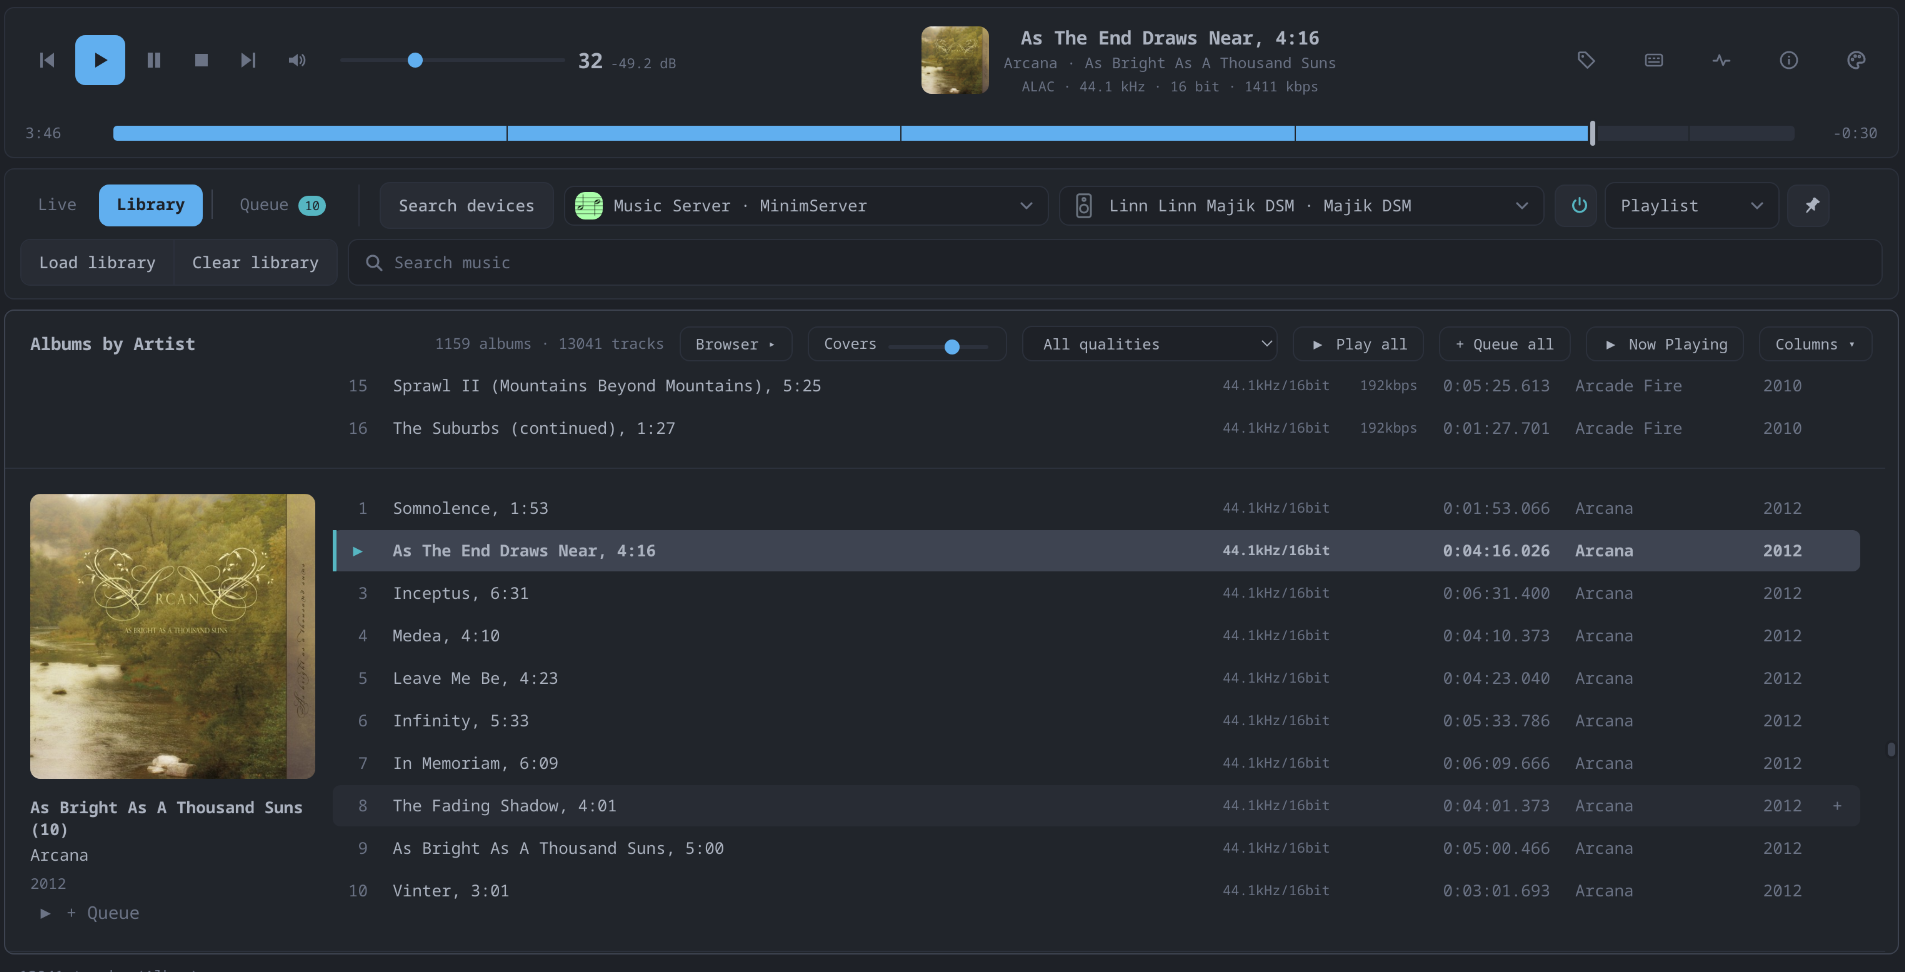
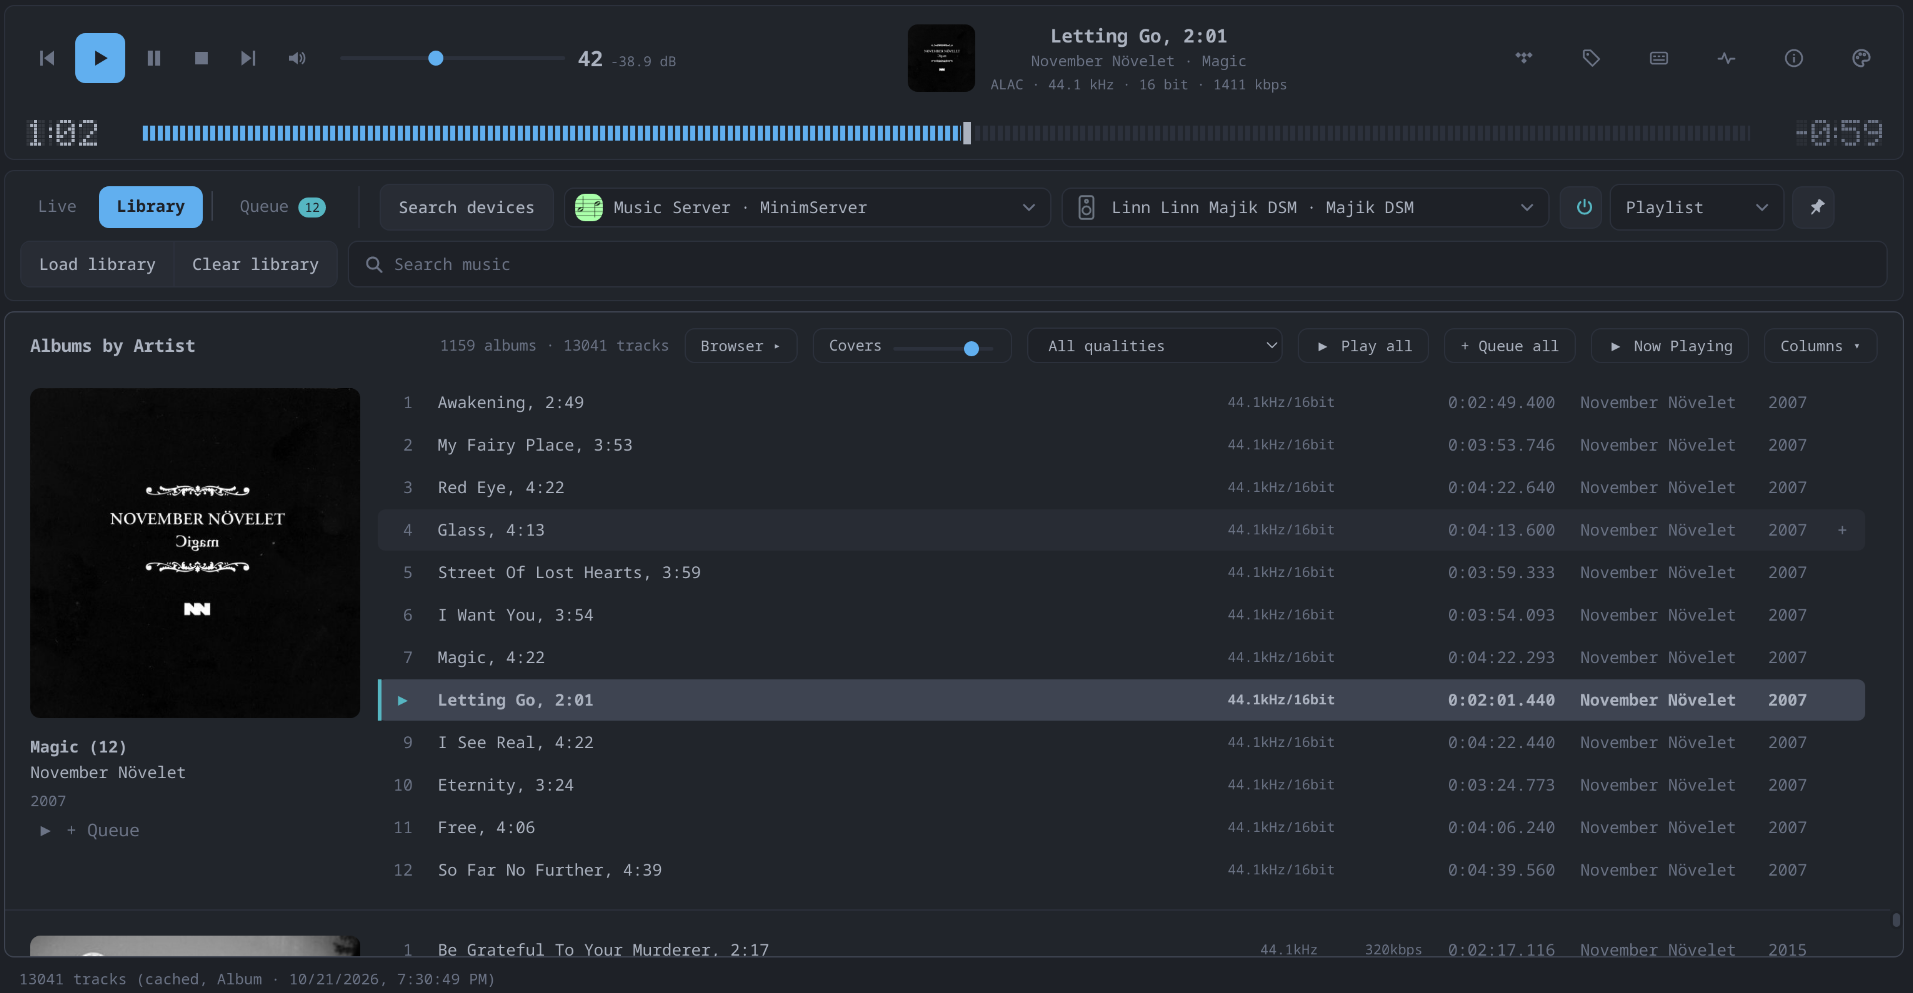
Fix HEOS/Sonos volume, refuse requests from other sites, readable backend errors
- RenderingControl (the volume of plain UPnP players such as HEOS and
  Sonos) now goes through StrictSoap like AVTransport, so it sends the
  text/xml; charset="utf-8" content type these players require.
- The backend only answers its own window: the Host must be a loopback
  name, and requests with a foreign Origin or Sec-Fetch-Site cross-site /
  same-site are refused (403). Before, any web page could e.g. skip
  tracks, log out of TIDAL or quit the app with a plain POST, and DNS
  rebinding could read the answers.
- api() in the page reads plain-text error answers ("Internal Server
  Error") and FastAPI's validation error lists as messages instead of
  failing with a JSON parse error or "[object Object]".
- Docs: new Library mode screenshot with the pixel LCD position bar.

Claude-Session: https://claude.ai/code/session_01WGiUZ6aAAc2JoxKtEd8kGk

diff --git a/app/static/index.html b/app/static/index.html
@@ -8,4 +8,4 @@ P.forEach(function(p){var li=document.createElement("li");li.dataset.t=p[0];li.s
 apply(cur(),false);
 btn.onclick=function(e){e.stopPropagation();menu.classList.toggle("hidden")};
 document.addEventListener("click",function(){menu.classList.add("hidden")});
-document.addEventListener("keydown",function(e){if(e.key==="Escape")menu.classList.add("hidden")});})();</script><audio id="localAudio" preload="none"></audio><div id="toast" class="toast hidden"></div><div id="diagModal" class="modal hidden"><div class="modal-content diag"><button id="diagClose" class="modal-close" aria-label="Close">×</button><h3>Diagnostics</h3><div class="diagbar"><button id="diagCopy" class="btn-link">Copy report</button><button id="diagDevice" class="btn-link" title="Add the selected device's services to the log">Device info</button><button id="diagClear" class="btn-link">Clear</button><label class="btn-link"><input id="diagErrOnly" type="checkbox"> Errors only</label></div><ol id="diagList"></ol></div></div><div id="aboutModal" class="modal hidden"><div class="modal-content about"><button id="aboutClose" class="modal-close" aria-label="Close">×</button><h3>Flou Player</h3><p id="aboutVersion" class="aboutver"></p><p>A local, iTunes-style desktop app for browsing and playing music from MinimServer through a Linn/OpenHome output device.</p><p class="aboutai">Developed with AI assistance: almost all code was written by Claude Code (Anthropic) under the direction of the author.</p><table id="aboutTable"></table><p><a id="aboutRepo" href="#" target="_blank" rel="noopener"></a> · <a id="aboutChangelog" href="#" target="_blank" rel="noopener">Changelog</a></p></div></div><div id="keysModal" class="modal hidden"><div class="modal-content keys" role="dialog" aria-label="Keyboard shortcuts"><button id="keysClose" class="modal-close" aria-label="Close">×</button><h3>Keyboard shortcuts</h3><div id="keysBody"></div></div></div><div id="lightbox" class="lightbox hidden"><img alt=""><span></span></div><div id="metaModal" class="modal hidden"><div class="modal-content"><button id="metaClose" class="modal-close">×</button><h3 id="metaTitle">Metadata</h3><pre id="metaBody"></pre></div></div></div><script src="/static/core.js?v=70"></script><script src="/static/devices.js?v=70"></script><script src="/static/dialogs.js?v=70"></script><script src="/static/library.js?v=70"></script><script src="/static/playback.js?v=70"></script><script src="/static/queue.js?v=70"></script><script src="/static/health.js?v=70"></script><script src="/static/tidal.js?v=70"></script><script src="/static/live.js?v=70"></script><script src="/static/openhome.js?v=70"></script><script src="/static/remember.js?v=70"></script><script src="/static/keyboard.js?v=70"></script><script src="/static/media.js?v=70"></script></body></html>
+document.addEventListener("keydown",function(e){if(e.key==="Escape")menu.classList.add("hidden")});})();</script><audio id="localAudio" preload="none"></audio><div id="toast" class="toast hidden"></div><div id="diagModal" class="modal hidden"><div class="modal-content diag"><button id="diagClose" class="modal-close" aria-label="Close">×</button><h3>Diagnostics</h3><div class="diagbar"><button id="diagCopy" class="btn-link">Copy report</button><button id="diagDevice" class="btn-link" title="Add the selected device's services to the log">Device info</button><button id="diagClear" class="btn-link">Clear</button><label class="btn-link"><input id="diagErrOnly" type="checkbox"> Errors only</label></div><ol id="diagList"></ol></div></div><div id="aboutModal" class="modal hidden"><div class="modal-content about"><button id="aboutClose" class="modal-close" aria-label="Close">×</button><h3>Flou Player</h3><p id="aboutVersion" class="aboutver"></p><p>A local, iTunes-style desktop app for browsing and playing music from MinimServer through a Linn/OpenHome output device.</p><p class="aboutai">Developed with AI assistance: almost all code was written by Claude Code (Anthropic) under the direction of the author.</p><table id="aboutTable"></table><p><a id="aboutRepo" href="#" target="_blank" rel="noopener"></a> · <a id="aboutChangelog" href="#" target="_blank" rel="noopener">Changelog</a></p></div></div><div id="keysModal" class="modal hidden"><div class="modal-content keys" role="dialog" aria-label="Keyboard shortcuts"><button id="keysClose" class="modal-close" aria-label="Close">×</button><h3>Keyboard shortcuts</h3><div id="keysBody"></div></div></div><div id="lightbox" class="lightbox hidden"><img alt=""><span></span></div><div id="metaModal" class="modal hidden"><div class="modal-content"><button id="metaClose" class="modal-close">×</button><h3 id="metaTitle">Metadata</h3><pre id="metaBody"></pre></div></div></div><script src="/static/core.js?v=71"></script><script src="/static/devices.js?v=71"></script><script src="/static/dialogs.js?v=71"></script><script src="/static/library.js?v=71"></script><script src="/static/playback.js?v=71"></script><script src="/static/queue.js?v=71"></script><script src="/static/health.js?v=71"></script><script src="/static/tidal.js?v=71"></script><script src="/static/live.js?v=71"></script><script src="/static/openhome.js?v=71"></script><script src="/static/remember.js?v=71"></script><script src="/static/keyboard.js?v=71"></script><script src="/static/media.js?v=71"></script></body></html>

diff --git a/app/static/core.js b/app/static/core.js
@@ -86,7 +86,14 @@ async function api(url,opt){
   let r;
   try{r=await fetch(url,opt)}
   catch(e){ if(e.name==='AbortError') throw e; throw Error('Lost connection to the Flou Player background service -- please restart Flou Player.') }
-  const j=await r.json();if(!r.ok)throw Error(j.detail||r.statusText);return j}
+  // A crash in the backend answers with plain text ("Internal Server Error"), not JSON: report that, not a JSON parse error.
+  const text=await r.text(); let j;
+  try{ j=JSON.parse(text) }catch(e){ throw Error(`The background service answered ${[r.status,r.statusText].filter(Boolean).join(' ')}: ${text.trim().slice(0,200)||'(empty)'} (${url})`) }
+  if(!r.ok){
+    const d=j?.detail;   // a string, or FastAPI's list of validation errors
+    throw Error(typeof d==='string'?d:Array.isArray(d)?d.map(x=>x?.msg||JSON.stringify(x)).join('; '):`${r.status} ${r.statusText}`);
+  }
+  return j}
 function isLocal(){return $('#renderer').value===LOCAL_RENDERER_ID}
 
 function deviceOption(d){return `<option value="${esc(d.id)}" data-icon="${esc(d.icon||'')}">${esc(d.name)}${d.model?' · '+esc(d.model):''}</option>`}

diff --git a/tests/test_backend.py b/tests/test_backend.py
@@ -10,7 +10,7 @@ import app.main as m
 from app import devices as devices_api, state as app_state
 from tests.fakes import linn_player, media_server
 
-client = TestClient(m.app)
+client = TestClient(m.app, base_url="http://127.0.0.1:8765")   # the backend only answers local requests
 
 TRACK = ('<item id="t1" parentID="a1"><dc:title>Song</dc:title><upnp:artist>Artist</upnp:artist><upnp:album>Album</upnp:album>'
          '<upnp:class>object.item.audioItem.musicTrack</upnp:class>'
@@ -216,6 +216,23 @@ def test_av_calls_send_a_utf8_charset_content_type():
     dev, av = av_only_renderer({"Stop": {}, "SetAVTransportURI": {}, "Play": {}})
     assert play(dev).status_code == 200
     assert av.headers == {"Content-Type": 'text/xml; charset="utf-8"'}
+
+
+def test_rendering_control_volume_sends_a_utf8_charset_content_type():
+    """The volume of a HEOS/Sonos player goes through RenderingControl, which needs the same header."""
+    from tests.fakes import FakeService
+    level = {"v": 20}
+    rc = FakeService("urn:upnp-org:serviceId:RenderingControl", "urn:schemas-upnp-org:service:RenderingControl:1", {
+        "GetVolume": lambda InstanceID, Channel: {"CurrentVolume": level["v"]},
+        "SetVolume": lambda InstanceID, Channel, DesiredVolume: level.update(v=DesiredVolume) or {},
+    })
+    dev, _ = av_only_renderer({})
+    dev.services.append(rc)
+    assert client.get(f"/api/devices/{dev.udn}/volume").json()["percent"] == 20
+    assert rc.headers == {"Content-Type": 'text/xml; charset="utf-8"'}
+    rc.headers = None
+    assert control(dev, "volume", 35).status_code == 200
+    assert level["v"] == 35 and rc.headers == {"Content-Type": 'text/xml; charset="utf-8"'}
 
 
 def test_set_uri_falls_back_to_a_minimal_didl_before_no_metadata():
@@ -460,6 +477,29 @@ def test_ping_identifies_the_app_and_the_page_is_not_cached():
     assert page.status_code == 200 and "Flou Player" in page.text
     assert page.headers["cache-control"] == "no-cache"
     assert client.get("/static/core.js").headers["cache-control"] == "no-cache"
+
+
+@pytest.mark.parametrize("headers", [
+    {"Host": "attacker.example:8765"},                                   # DNS rebinding: a foreign name on 127.0.0.1
+    {"Origin": "https://evil.example"},                                  # a form post / fetch from another site
+    {"Origin": "null"},                                                  # sandboxed frame, file:// page
+    {"Origin": "http://127.0.0.1:3000"},                                 # another local web app
+    {"Sec-Fetch-Site": "cross-site"},                                    # <img>/<audio> from another site (no Origin)
+    {"Sec-Fetch-Site": "same-site"},
+])
+def test_requests_from_other_sites_are_refused(headers):
+    for r in (client.post("/api/media/command/next", headers=headers), client.get("/api/app/ping", headers=headers)):
+        assert r.status_code == 403 and "detail" in r.json()
+
+
+@pytest.mark.parametrize("headers", [
+    {},                                                                  # scripts, a second launch (desktop.py)
+    {"Origin": "http://127.0.0.1:8765", "Sec-Fetch-Site": "same-origin"},  # the app's own page
+    {"Sec-Fetch-Site": "none"},                                          # the address typed into a browser
+    {"Host": "localhost:8765", "Origin": "http://localhost:8765"},
+])
+def test_the_apps_own_requests_are_answered(headers):
+    assert client.post("/api/media/command/bogus", headers=headers).json() == {"ok": False}
 
 
 def test_transcode_only_accepts_http_urls():

diff --git a/app/main.py b/app/main.py
@@ -10,9 +10,10 @@ from __future__ import annotations
 import contextlib
 import json
 from pathlib import Path
+from urllib.parse import urlsplit
 
 from fastapi import FastAPI
-from fastapi.responses import FileResponse
+from fastapi.responses import FileResponse, JSONResponse
 from fastapi.staticfiles import StaticFiles
 
 from app import __version__, control, devices as devices_api, library, media, openhome, playlist, tidal, transcode
@@ -28,6 +29,25 @@ async def lifespan(_app):
 
 app=FastAPI(title="Flou Player", version=__version__, lifespan=lifespan)
 app.mount("/static", StaticFiles(directory=STATIC_DIR), name="static")
+
+# Only the app's own page (and scripts on this computer) may use the backend. It listens on 127.0.0.1
+# only, but any web page open in a browser can still send requests there: a form post or an <img> from
+# another site, or a foreign host name pointed at 127.0.0.1 (DNS rebinding) to read the answers too.
+# So the Host must be a loopback name, and a request the browser marks as coming from elsewhere is refused.
+LOCAL_HOSTS={"127.0.0.1","localhost","::1"}
+
+def is_local_request(headers):
+    host=(headers.get("host") or "").lower()
+    if urlsplit("//"+host).hostname not in LOCAL_HOSTS: return False
+    origin=headers.get("origin")
+    if origin is not None and urlsplit(origin.lower()).netloc!=host: return False   # "null" included
+    return headers.get("sec-fetch-site") not in ("cross-site","same-site")   # same-site: another port on this computer
+
+@app.middleware("http")
+async def only_local(request,call_next):
+    if not is_local_request(request.headers):
+        return JSONResponse({"detail":"Flou Player only answers its own window."},status_code=403)
+    return await call_next(request)
 
 @app.middleware("http")
 async def no_cache_ui(request,call_next):

diff --git a/tests/test_ui.py b/tests/test_ui.py
@@ -318,6 +318,17 @@ def test_about_dialog_shows_version_and_source(page, api):
     assert "developed with ai assistance" in page.inner_text("#aboutModal").lower()
 
 
+def test_backend_errors_read_as_messages_not_json_parse_errors(page, api):
+    api.routes["invalid"] = (422, {"detail": [{"loc": ["body", "value"], "msg": "Input should be a valid integer"}]})
+    api.routes["refused"] = (400, {"detail": "No volume service on this device"})
+    page.route("**/api/crash", lambda route: route.fulfill(status=500, body="Internal Server Error", content_type="text/plain"))
+    open_app(page)
+    msg = lambda url: page.evaluate("u => api(u).then(() => 'ok', e => e.message)", url)
+    assert msg("/api/crash") == "The background service answered 500 Internal Server Error: Internal Server Error (/api/crash)"
+    assert msg("/api/invalid") == "Input should be a valid integer"
+    assert msg("/api/refused") == "No volume service on this device"
+
+
 # ---------- album order ----------
 
 def test_albums_are_ordered_by_album_artist_then_album(page, api):

diff --git a/app/upnp.py b/app/upnp.py
@@ -48,14 +48,15 @@ def find_volume_service(d):
     """Prefers the OpenHome Volume service (typical for Linn devices):
     it offers real dB resolution via Characteristics()
     (VolumeMilliDbPerStep). Fallback: classic UPnP-AV
-    RenderingControl service (0-100 only, no dB)."""
+    RenderingControl service (0-100 only, no dB) -- wrapped in StrictSoap
+    like AVTransport, since it is what HEOS and Sonos players offer."""
     for dev in peer_devices(d):
         for s in dev.services:
             sid=(getattr(s,"service_id","")+" "+getattr(s,"service_type","")).lower()
             if "openhome" in sid and "volume" in sid: return s,"openhome"
     for s in d.services:
         sid=(getattr(s,"service_id","")+" "+getattr(s,"service_type","")).lower()
-        if "renderingcontrol" in sid or "volume" in sid: return s,"renderingcontrol"
+        if "renderingcontrol" in sid or "volume" in sid: return StrictSoap(s),"renderingcontrol"
     return None,None
 
 def device_icon(d):

diff --git a/tests/test_tidal.py b/tests/test_tidal.py
@@ -10,7 +10,7 @@ from app import devices as devices_api, state as app_state, tidal
 from app.didl import parse_didl
 from tests.fakes import linn_player, oh
 
-client = TestClient(m.app)
+client = TestClient(m.app, base_url="http://127.0.0.1:8765")   # the backend only answers local requests
 
 
 class Pic:

diff --git a/CHANGELOG.md b/CHANGELOG.md
@@ -26,10 +26,25 @@ All notable changes to Flou Player are documented here. The format follows
   **Search devices** turns into **Cancel search** while a search runs.
 - The label of the active Live/Library/Queue tab was unreadable while the
   mouse was over it (text and background in the same colour).
+- Volume on plain UPnP players (Marantz/Denon HEOS, Sonos): reading and setting
+  it now sends the `text/xml; charset="utf-8"` content type these players
+  require, as playback already did; before, they could answer
+  "400 Bad Request".
+- An unexpected error in the background service now shows as a readable
+  message (status and text) instead of a JSON parse error, and a refused
+  request shows the reason instead of "[object Object]".
+
+### Security
+- The background service only answers Flou Player's own window (and scripts on
+  this computer): requests from other web pages open in a browser -- a form
+  post, an embedded image, a foreign host name pointed at 127.0.0.1 -- are
+  refused. Before, any web page could e.g. skip tracks, log out of TIDAL or
+  quit the app.
 
 ### Changed
 - Docs: new screenshots of Live and Library mode, plus Library health,
   Diagnostics and the theme picker, in the feature list and the user guide.
+  The Library mode screenshot shows the new pixel LCD position bar.
 
 ## [0.19.0] - 2026-10-20
 

diff --git a/docs/development.md b/docs/development.md
@@ -36,7 +36,7 @@ app and includes one router per topic; the rest is split like this:
 
 | File | Contents |
 | --- | --- |
-| `main.py` | The app, static files, `/` and the About/ping endpoints, build ID and source info |
+| `main.py` | The app, static files, `/` and the About/ping endpoints, build ID and source info; refuses requests that don't come from the app's own window (other web pages, foreign host names) |
 | `state.py` | Shared state: the discovered devices (one dict, updated in place), locks, and where the app keeps its files |
 | `upnp.py` | Helpers for UPnP devices: finding services (also on a player's sibling devices), icons, device JSON |
 | `didl.py` | DIDL-Lite parsing and walking a ContentDirectory |
